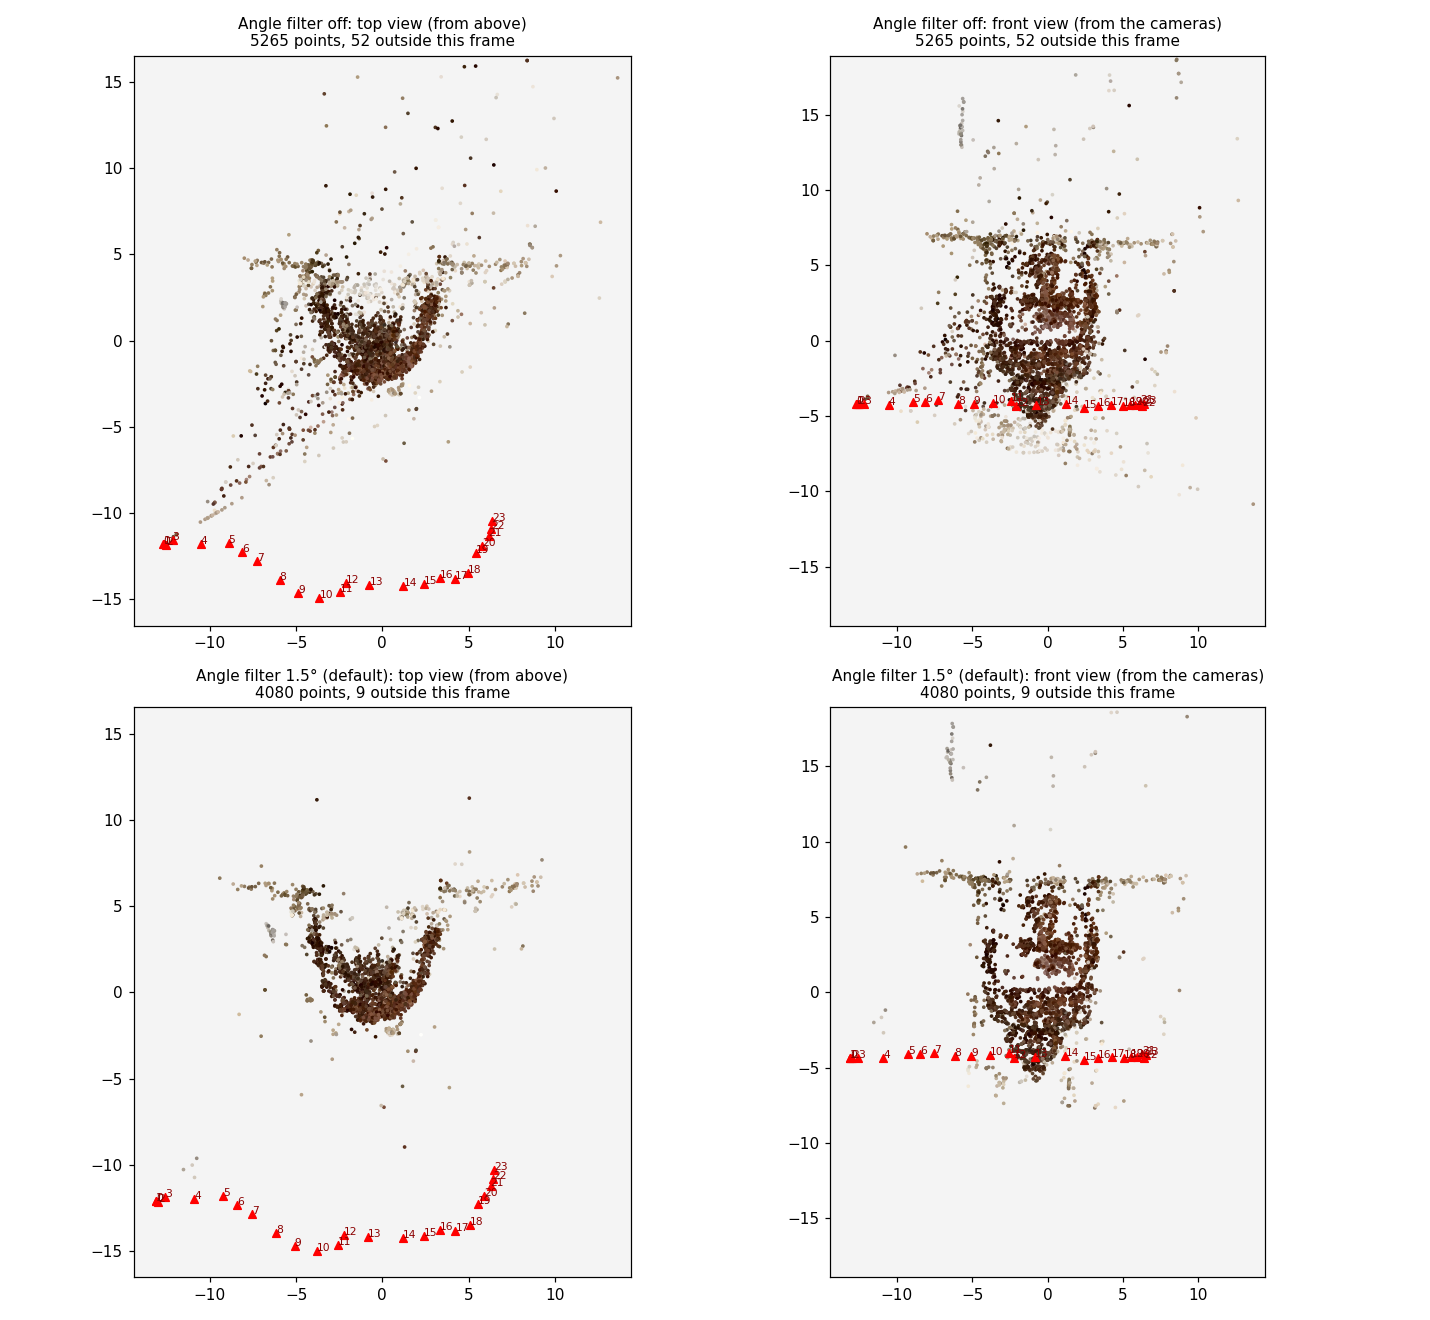
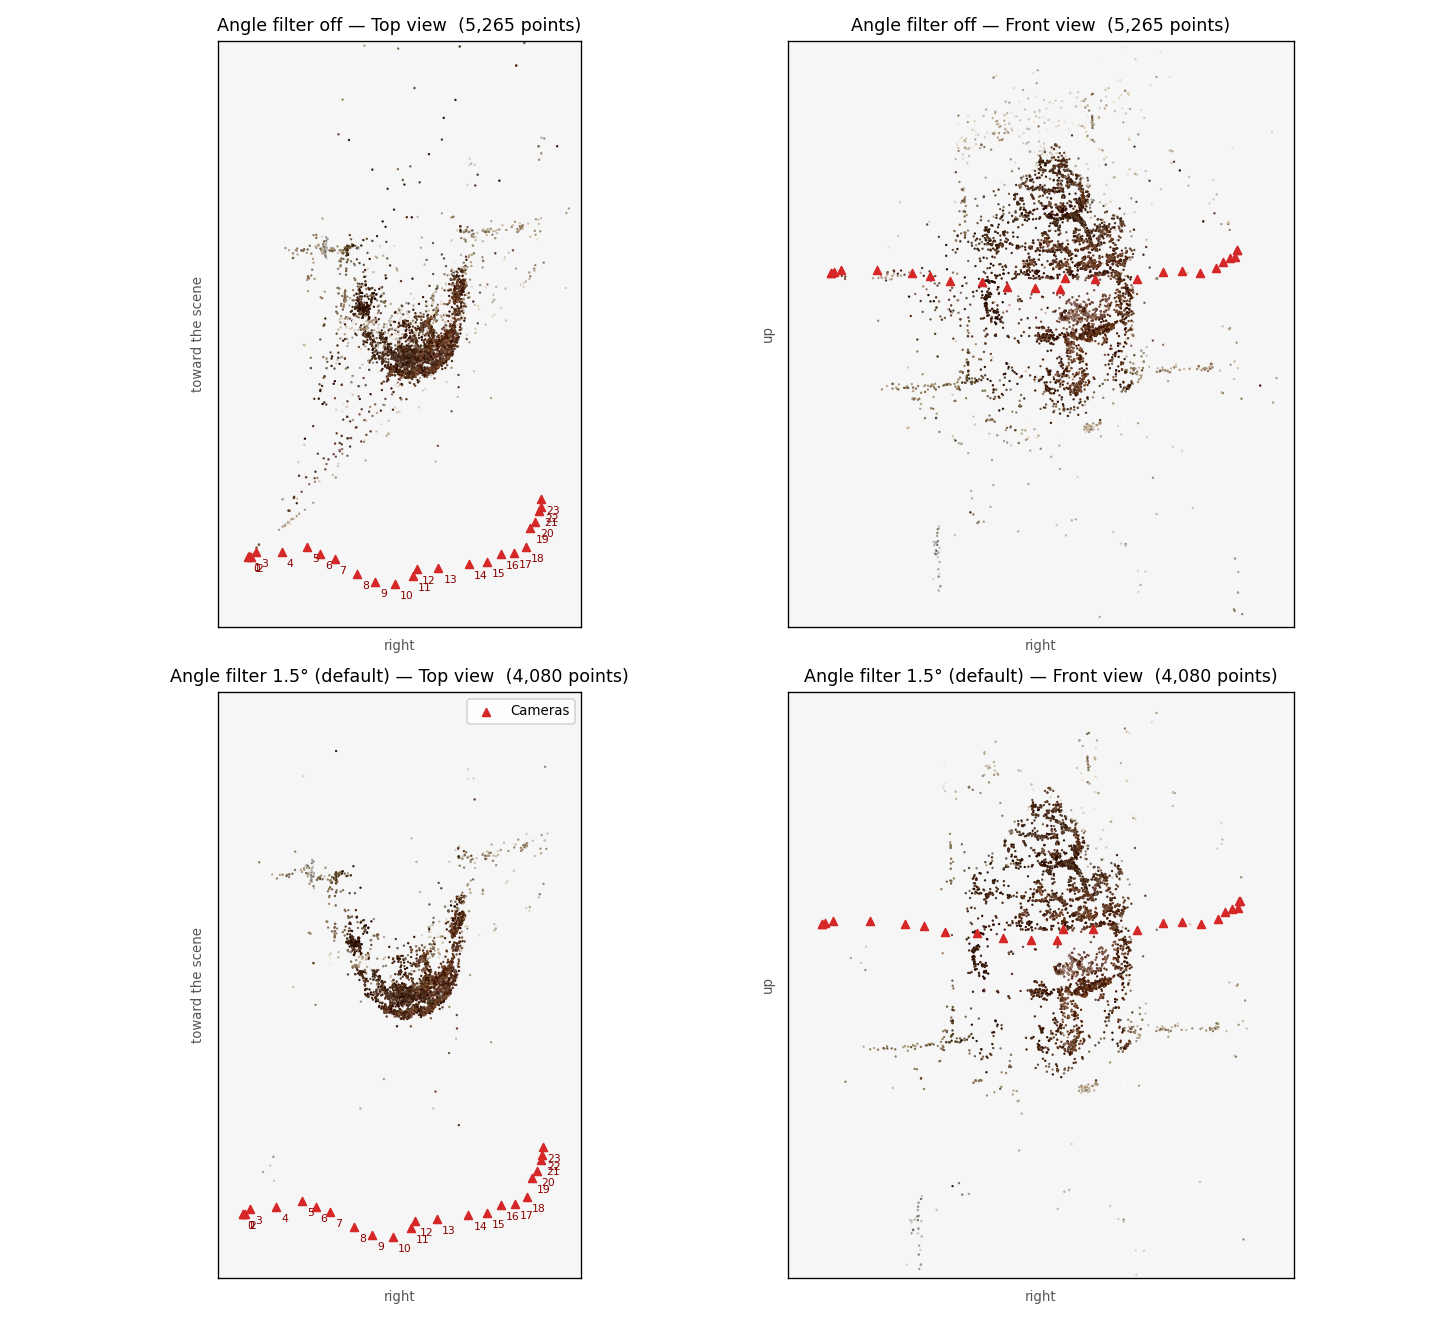
Rewrite README and fix C++ figure orientation
The C++ before/after-BA and angle-filter figures took their vertical
axis from an SVD direction with arbitrary sign, which rendered the front
views upside down. They are now drawn in the cameras' own frame (up from
the mean camera y axis, right from the mean x axis), so the front view
matches the input photos.

README: restructure into results, pipeline, structure, getting started,
COLMAP viewing, implementation notes and limitations; replace estimated
numbers with measured ones; add a figure pairing an input frame with the
final reconstruction.

diff --git a/README.md b/README.md
@@ -1,116 +1,129 @@
 # Incremental Structure-from-Motion
 
-A from-scratch **incremental sparse SfM** pipeline that reconstructs camera poses and a 3D landmark cloud from a monocular image sequence. The geometry stack (fundamental / essential matrices, triangulation, PnP, tracks) is implemented in Python; bundle adjustment uses **GTSAM**.
+An incremental sparse **Structure-from-Motion** pipeline that recovers camera poses and a 3D point cloud from a monocular image sequence. The geometry core (fundamental and essential matrices, pose recovery, triangulation, multi-view tracks) is implemented from scratch, and the repository contains two implementations:
 
-A **C++17 port** in [`cpp/`](cpp/) reimplements the same pipeline with **Ceres** bundle adjustment, fixes several issues found along the way, and reaches **0.39 px** reprojection RMSE vs ~3.4 px for the Python version (see [C++ implementation](#c-implementation-ceres)).
+- **Python** (`sfm/`, `SFM.ipynb`): the reference implementation, with bundle adjustment in **GTSAM**.
+- **C++17** (`cpp/`): a module-by-module port with bundle adjustment in **Ceres**, a command-line pipeline, and a test for every module.
+
+On a 24-image sequence, both register all 24 cameras. The C++ pipeline reaches **0.39 px** final reprojection RMSE (Python: 3.36 px) and leaves no points behind any camera.
+
+<p align="center">
+  <img src="Assets/cpp_reconstruction.png" width="760" alt="Input frame and the C++ sparse reconstruction seen from the cameras">
+</p>
+
+## Contents
+
+- [Results](#results)
+- [Pipeline](#pipeline)
+- [Repository structure](#repository-structure)
+- [Getting started](#getting-started)
+- [Viewing results in COLMAP](#viewing-results-in-colmap)
+- [Implementation notes](#implementation-notes)
+- [Limitations and future work](#limitations-and-future-work)
+
+## Results
+
+Dataset: 24 frames (1080 × 1920) of a carved wooden Buddha head, with per-frame `SIMPLE_RADIAL` intrinsics in COLMAP format (`cameras.txt`).
+
+| Metric | Python (GTSAM) | C++ (Ceres) |
+|---|---:|---:|
+| Registered images | 24 / 24 | 24 / 24 |
+| 3D points before / after BA | 5,505 / 5,490 | 4,102 / 4,080 |
+| Points behind a camera before BA | 15 | 0 |
+| BA cost reduction | 66.7% | 76.8% (round 1) |
+| Final reprojection RMSE, √(cost / 2N) | 3.36 px | 0.39 px |
+| Reprojection error after BA, median / p90 | — | 0.50 / 1.37 px |
+| Bundle adjustment time | — | 0.33 s |
+| End-to-end runtime | — | ≈ 32 s (mostly SIFT matching) |
+
+The two versions optimize different observation sets: the C++ pipeline removes outliers and inconsistent tracks before and during bundle adjustment. The RMSE gap therefore reflects that cleanup as well as the optimizer. The C++ version keeps fewer points because it rejects points triangulated from nearly identical viewpoints, whose depth is unreliable (see [Implementation notes](#implementation-notes)).
+
+### Bundle adjustment (C++)
+
+![C++ reconstruction before and after bundle adjustment](Assets/cpp_before_after_ba.png)
+
+Top and front views in the cameras' frame. Red triangles are cameras; blue circles mark their positions before bundle adjustment. BA levels the shelf edge and the back wall, tightens the head (median point distance from the center 4.44 → 3.46), and pulls back cameras 0–3, which had drifted by up to 1.8× the spacing between neighbouring cameras at the end of the longest registration chain. The median reprojection error falls from 1.04 px to 0.50 px.
+
+### Minimum triangulation angle (C++)
+
+![Reconstruction with and without the triangulation-angle filter](Assets/cpp_angle_filter.png)
+
+Cameras 0–3 are nearly co-located, so points triangulated mainly from them have almost no parallax and smear along their viewing rays (the diagonal streak in the top-left panel). A 1.5° minimum triangulation angle removes them: no point lies beyond 7× the median distance from the cloud center, compared with 29 beyond 10× without the filter. It also removes the ill-conditioning these points caused in bundle adjustment, which converges in 34 iterations instead of 96.
+
+### Bundle adjustment (Python)
+
+| Before BA | After BA |
+|:---:|:---:|
+| ![Python reconstruction before BA](Assets/Pre_BA.png) | ![Python reconstruction after BA](Assets/Post_BA.png) |
 
 ## Pipeline
 
 ```text
 Images + intrinsics
-  → SIFT features & pairwise matching (RANSAC F)
-  → Global tracks (Union-Find)
-  → Seed pair (E-matrix, cheirality, triangulation)
-  → Bidirectional PnP registration + map growth
-  → Retriangulation of leftover tracks
-  → GTSAM bundle adjustment
-  → Open3D visualization / COLMAP export
+  → SIFT features and pairwise matching, verified by RANSAC on F
+  → Multi-view tracks (union-find)
+  → Seed pair: essential matrix, cheirality check, triangulation
+  → Incremental registration: PnP-RANSAC forward and backward from the seed, map growth
+  → Retriangulation of remaining tracks
+  → Bundle adjustment (GTSAM in Python, Ceres in C++)
+  → Export: COLMAP sparse model, point cloud (Open3D in Python, PLY in C++)
 ```
 
-**Core stages**
+1. **Feature matching.** SIFT keypoints, Lowe ratio test, and geometric verification with a RANSAC fundamental matrix scored by Sampson error. Pairs are matched within a sliding window of 8 frames. The Python version also offers a SuperPoint + LightGlue front end.
+2. **Two-view geometry.** Normalized 8-point algorithm, rank-2 enforcement, essential matrix E = Kⱼᵀ F Kᵢ, the four (R, t) hypotheses, and a cheirality check to pick the valid one.
+3. **Tracks.** Pairwise matches are merged into multi-view tracks with union-find.
+4. **Incremental mapping.** The seed pair defines the world frame. Each new image is registered by PnP-RANSAC against already triangulated tracks, then its unmapped tracks are triangulated against every registered neighbour. Remaining tracks are retriangulated from their widest-baseline pair of views.
+5. **Bundle adjustment.** Joint optimization of all camera poses and 3D points with a robust Huber loss and Levenberg–Marquardt.
+6. **Export.** COLMAP text and binary models for inspection in the COLMAP GUI, plus a colored point cloud.
 
-1. **Feature matching** — SIFT + Lowe ratio test + RANSAC fundamental matrix (Sampson error). Optional SuperPoint + LightGlue front-end.
-2. **Two-view geometry** — normalized 8-point `F`, essential matrix `E = Kⱼᵀ F Kᵢ`, pose hypotheses, cheirality selection.
-3. **Incremental mapping** — seed triangulation, `solvePnPRansac` localization, neighbor triangulation, global retriangulation.
-4. **Bundle adjustment** — robust (Huber) projection factors in GTSAM; joint pose + landmark LM optimization.
-5. **Visualization / export** — Open3D viewer; COLMAP-compatible sparse models for the COLMAP GUI.
-
-## Repository layout
+## Repository structure
 
 ```text
 .
-├── SFM.ipynb              # End-to-end runner notebook
-├── sfm/                   # Pipeline package
-│   ├── io.py              # Image + COLMAP cameras.txt loading
-│   ├── geometry.py        # F / E / pose / triangulation
-│   ├── matching.py        # SIFT matching
-│   ├── matching_superpoint.py  # Optional SuperPoint + LightGlue
-│   ├── tracks.py          # Multi-view tracks
-│   ├── mapping.py         # Seed, PnP expansion, retriangulation
-│   ├── ba.py              # GTSAM bundle adjustment
-│   ├── viz.py             # Open3D visualization
-│   ├── colmap_export.py   # Export for COLMAP GUI
-│   └── rng.py             # Reproducible seeding
-├── cpp/                   # C++17 port (Ceres BA); see cpp/README.md
-│   ├── include/sfm/       # Headers, one per module
-│   ├── src/               # Modules + main.cpp (sfm_pipeline)
-│   ├── tests/             # Per-module tests (synthetic + real data)
+├── SFM.ipynb                  # Python pipeline, end to end
+├── sfm/                       # Python package
+│   ├── io.py                  # Image and cameras.txt loading
+│   ├── geometry.py            # F, E, pose recovery, triangulation
+│   ├── matching.py            # SIFT matching and verification
+│   ├── matching_superpoint.py # Optional SuperPoint + LightGlue front end
+│   ├── tracks.py              # Multi-view tracks (union-find)
+│   ├── mapping.py             # Seed, PnP registration, retriangulation
+│   ├── ba.py                  # GTSAM bundle adjustment
+│   ├── viz.py                 # Open3D visualization
+│   ├── colmap_export.py       # COLMAP model export
+│   └── rng.py                 # Reproducible seeding
+├── cpp/                       # C++17 implementation (see cpp/README.md)
+│   ├── include/sfm/           # One header per module
+│   ├── src/                   # Modules and main.cpp (sfm_pipeline)
+│   ├── tests/                 # Per-module tests
 │   └── CMakeLists.txt
-├── buddha_images/         # Input RGB frames
-├── cameras.txt            # Per-view intrinsics (SIMPLE_RADIAL)
-├── Assets/                # Reconstruction figures
-├── colmap_exports/        # Exported before/after-BA models
-└── requirements.txt
+├── buddha_images/             # Input frames
+├── cameras.txt                # Per-frame intrinsics (COLMAP SIMPLE_RADIAL)
+├── Assets/                    # Figures
+└── requirements.txt           # Python dependencies
 ```
 
-## Requirements
+## Getting started
 
-- Python 3.10+
-- OpenCV
-- NumPy
-- Open3D
-- GTSAM
-- Jupyter
+### Python
 
-Optional:
-
-- PyTorch (CUDA recommended)
-- LightGlue + SuperPoint
+Requires Python 3.10+. Install the dependencies, then run `SFM.ipynb` from the repository root:
 
 ```bash
 pip install -r requirements.txt
+```
 
-# Optional SuperPoint / LightGlue frontend
+The optional SuperPoint + LightGlue front end needs PyTorch and:
+
+```bash
 pip install git+https://github.com/cvg/LightGlue.git
 ```
 
-COLMAP is only required if you want to inspect exported models in the COLMAP GUI.
+The notebook writes COLMAP models to `colmap_exports/before_ba` and `colmap_exports/after_ba`.
 
----
+### C++
 
-## Quick Start
-
-1. Place your images inside `buddha_images/`.
-2. Provide a matching `cameras.txt` in COLMAP text format (`SIMPLE_RADIAL`).
-3. Open and run `SFM.ipynb`.
-
-## COLMAP GUI
-
-Exported models are written to
-
-```
-colmap_exports/before_ba
-colmap_exports/after_ba
-```
-
-Visualize them with
-
-```bash
-colmap gui \
-  --database_path buddha_images/database.db \
-  --image_path buddha_images \
-  --import_path colmap_exports/after_ba
-```
-
-The exporter regenerates the binary files to avoid stale `.bin` models.
-
----
-
-## C++ implementation (Ceres)
-
-[`cpp/`](cpp/) is a module-by-module C++17 port of the Python package. Two-view geometry (normalized 8-point, RANSAC with Sampson error, essential matrix, pose decomposition, DLT triangulation) is written from scratch on Eigen; OpenCV provides SIFT, matching and `solvePnPRansac`; bundle adjustment uses Ceres. Every module has its own test against synthetic ground truth and the real data. Full details are in [`cpp/README.md`](cpp/README.md).
-
-Requires OpenCV 4, Eigen 3.3+, Ceres 2.x and CMake 3.16+. From the repository root:
+Requires a C++17 compiler, CMake 3.16+, OpenCV 4, Eigen 3.3+ and Ceres 2.x. Build and run from the repository root:
 
 ```bash
 cmake -S cpp -B cpp/build && cmake --build cpp/build -j
@@ -120,75 +133,57 @@ cmake -S cpp -B cpp/build && cmake --build cpp/build -j
 ./cpp/build/sfm_pipeline --data-dir .
 ```
 
-The run takes about 33 s and writes COLMAP models (`before_ba/`, `after_ba/`) and colored PLY point clouds to `colmap_exports_cpp/`.
+This writes COLMAP models (`before_ba/`, `after_ba/`) and colored PLY point clouds to `colmap_exports_cpp/`. Common options:
 
-**Main changes from the Python version**
+| Option | Effect |
+|---|---|
+| `--seed I J` / `--auto-seed` | Seed pair (default 15 16), or select it automatically by parallax |
+| `--min-tri-angle A` | Minimum triangulation angle in degrees (default 1.5; 0 disables) |
+| `--no-undistort` | Use raw keypoint positions instead of removing lens distortion |
+| `--gui before\|after` | Open the chosen model in the COLMAP GUI when finished |
 
-- Keypoints are undistorted (SIMPLE_RADIAL `k1`) before matching, so the pinhole model used everywhere downstream is correct.
-- F is refit on all RANSAC inliers; tracks with two keypoints in the same image are dropped.
-- Map growth checks depth in both cameras (the Python version tested world `z`), reprojection error, and a 1.5° minimum triangulation angle.
-- Bundle adjustment removes outliers (> 10 px), solves, removes > 4 px, and solves again, with the seed camera anchored and the scale fixed.
+The full option list, the per-module tests and a detailed comparison with the Python version are in [`cpp/README.md`](cpp/README.md).
 
-**Results on the 24-image Buddha set**
+### Using your own images
 
-| Metric | Python (GTSAM) | C++ (Ceres) |
-|---|---:|---:|
-| Registered images | 24 / 24 | 24 / 24 |
-| Landmarks after BA | 5,490 | 4,080 |
-| Tracks with negative depth before BA | 15 | 0 |
-| Final reprojection RMSE (same formula) | 3.36 px | 0.39 px |
-| Median / p90 reprojection error after BA | – | 0.50 / 1.37 px |
-| Bundle adjustment time | – | 0.33 s |
+Place the frames in `buddha_images/` (PNG, processed in filename order) and provide a matching `cameras.txt` in COLMAP text format with one `SIMPLE_RADIAL` camera per frame, where camera *i* + 1 belongs to the *i*-th image.
 
-The RMSE gap reflects the outlier filtering and track cleanup as well as the optimizer, since the two versions optimize different observation sets. The C++ version keeps fewer landmarks because the triangulation-angle filter removes points seen from nearly the same viewpoint, whose depth is unreliable.
+## Viewing results in COLMAP
 
-![C++ reconstruction before and after bundle adjustment](Assets/cpp_before_after_ba.png)
+COLMAP is optional and only needed to inspect the exported models. Use `colmap_exports/after_ba` for the Python output or `colmap_exports_cpp/after_ba` for the C++ output:
 
-*C++ reconstruction before (top) and after (bottom) bundle adjustment, from above and from the cameras. Red triangles are cameras; blue circles mark the pre-BA camera positions. BA straightens the flat background structure and pulls in the drifted cameras 0–3.*
+```bash
+colmap gui \
+  --database_path buddha_images/database.db \
+  --image_path buddha_images \
+  --import_path colmap_exports_cpp/after_ba \
+  --Render.min_track_len 2 \
+  --Render.max_error 10
+```
 
----
+`--Render.min_track_len 2` shows points observed in only two images, which COLMAP hides by default. Both exporters regenerate the binary files so that COLMAP never reads a stale `.bin` model.
 
-# Example Results
+## Implementation notes
 
-On a 24-view image sequence with denser SIFT settings (illustrative; exact numbers depend on feature parameters and RANSAC randomness):
+- **Intrinsics** are fixed and read from `cameras.txt`. The C++ pipeline removes the `SIMPLE_RADIAL` distortion from every keypoint before matching, so the pinhole model used by F estimation, PnP, triangulation and bundle adjustment is exact. The Python pipeline uses pinhole intrinsics (`Cal3_S2`) throughout.
+- **Reproducibility.** Both pipelines fix the random seed and run OpenCV single-threaded; repeated C++ runs produce identical results.
+- **Gauge.** The C++ bundle adjustment holds the seed camera fixed and fixes the overall scale with one translation component of the second seed camera. The Python version anchors one camera with a tight prior.
 
-| Metric | Value |
-|---------|------:|
-| Registered Images | 24 / 24 |
-| Sparse Landmarks (Pre-BA) | ~5.5k |
-| Bundle Adjustment Cost Reduction | ~60–70% |
-| Final Reprojection RMSE | ~3–4 px |
+The C++ port also makes the following changes to the Python algorithm:
 
-### Results
-#### Ground Truth
-![](Assets/Ground_Truth.png)
+| Change | Effect on this dataset |
+|---|---|
+| Depth is checked in both cameras when new points are triangulated (the Python version tests world *z*) | Points behind a camera before BA: 15 → 0 |
+| Tracks containing two keypoints from the same image are dropped | Observations with > 10 px error before BA halved |
+| F is refit on all RANSAC inliers | Recall on a synthetic benchmark 0.895 → 0.948, with no extra outliers |
+| New views need ≥ 12 PnP inliers; new points pass a reprojection check | Poorly supported poses and points are rejected |
+| 1.5° minimum triangulation angle | Low-parallax points removed; BA converges in 34 instead of 96 iterations |
+| BA in two rounds: remove > 10 px, solve, remove > 4 px, solve again | Outliers no longer bias the solution |
 
-| Pre-BA | Post-BA |
-|:-------:|:-------:|
-| ![](Assets/Pre_BA.png) | ![](Assets/Post_BA.png) |
+## Limitations and future work
 
-
-The figures illustrate the recovered sparse point cloud and estimated camera trajectory before and after bundle adjustment. Bundle adjustment jointly optimizes camera poses and 3D landmarks by minimizing reprojection error, producing a more geometrically consistent reconstruction.
-
----
-
-## Design Notes
-
-- Camera intrinsics are assumed to be known from `cameras.txt`.
-- The pipeline supports `SIMPLE_RADIAL` intrinsics, while bundle adjustment currently optimizes using a pinhole `Cal3_S2` camera model. The C++ port undistorts keypoints first, so its pinhole BA matches the lens model.
-- Pairwise matching uses a sliding image window to reduce incorrect long-range correspondences.
-- Multi-view feature tracks are built using a Union-Find data structure.
-- Incremental mapping uses RANSAC-based PnP followed by retriangulation.
-- Bundle adjustment uses robust Huber projection factors with Levenberg–Marquardt optimization in GTSAM.
-- `set_random_seed(0)` and OpenCV single-threading improve reproducibility across RANSAC stages.
-
----
-
-## Future Improvements
-
-- Camera intrinsic optimization during bundle adjustment.
-- Loop closure and pose graph optimization.
-- Dense multi-view stereo reconstruction.
-- GPU-accelerated feature extraction and matching.
-- Hierarchical or parallel SfM for large-scale datasets.
-- Integration with learned feature descriptors and differentiable bundle adjustment.
+- Intrinsics are not refined during bundle adjustment.
+- No loop closure or global pose-graph optimization; drift is corrected only by bundle adjustment.
+- Sparse reconstruction only; dense multi-view stereo is not included.
+- The seed pair is fixed by default; automatic selection is available in the C++ pipeline but not tuned.
+- Learned features (SuperPoint + LightGlue) are available only in the Python version.
